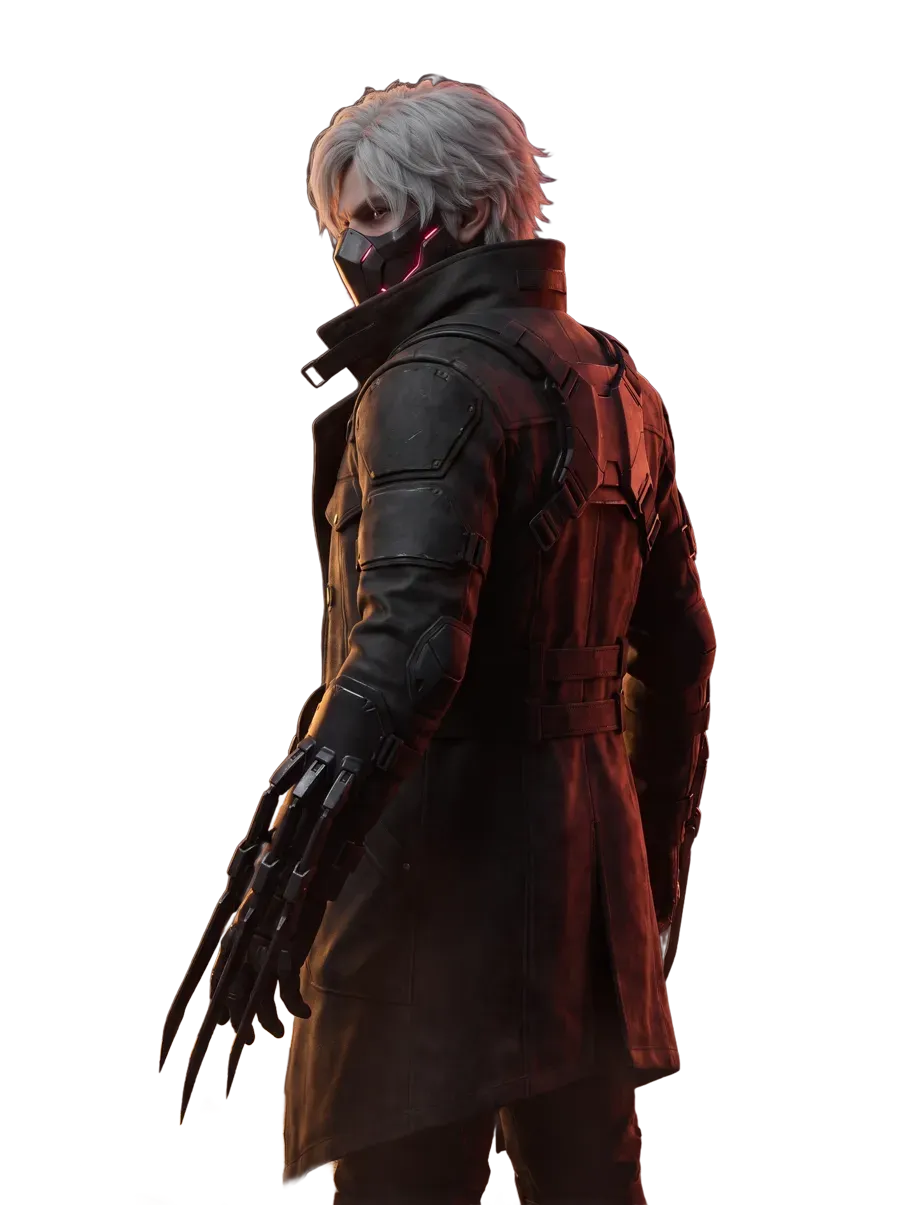
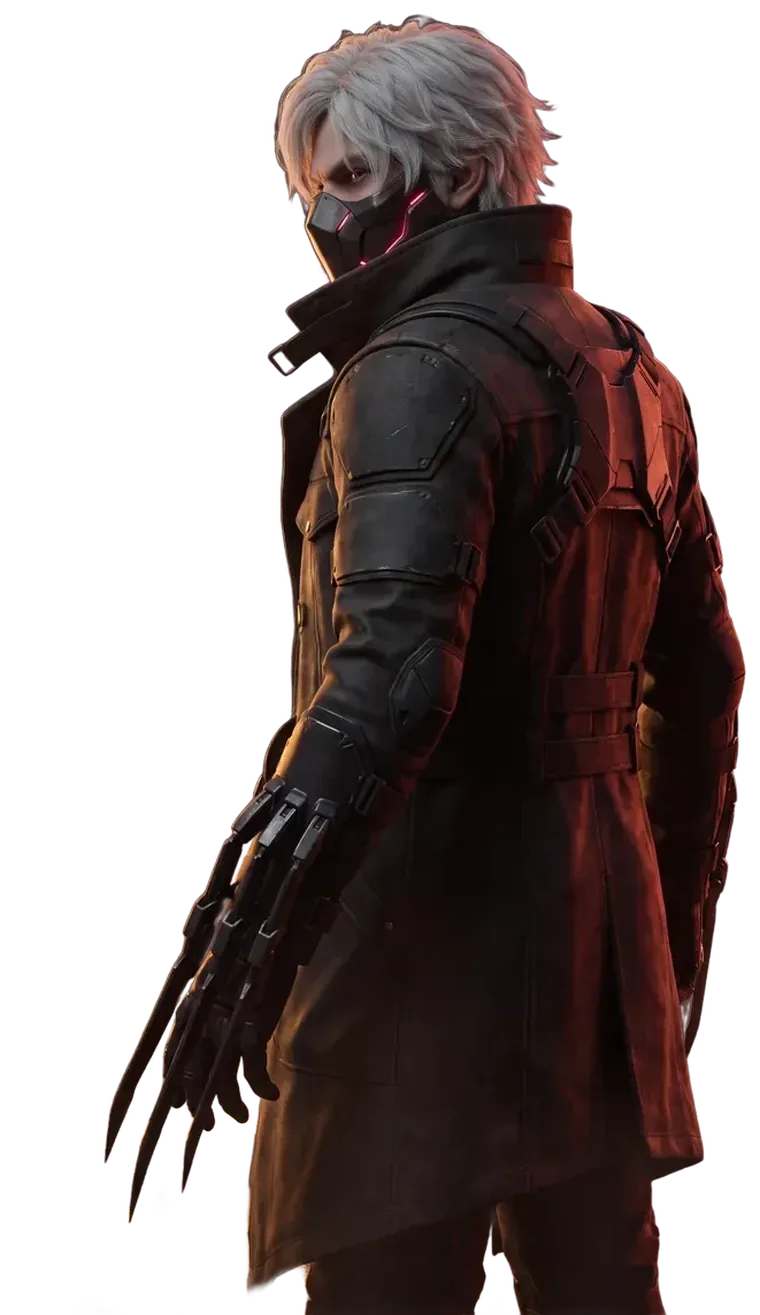
feral-edge: fix mobile hero (trim transparent margins, remove stuck entrance translate); retune hero sizing

diff --git a/feral-edge/styles.css b/feral-edge/styles.css
@@ -99,8 +99,8 @@ body:has(.hero.is-reveal) .hemo,body:has(.hero.is-locked) .hemo{opacity:.9; anim
 .hud i:nth-child(4){bottom:0; right:0; border-left:0; border-top:0}
 
 /* ---- hero figure (hover unmask) ---- */
-.hero{position:absolute; z-index:1; margin:0; top:52%; left:59%; transform:translate(-50%,-50%);
-  width:min(88vw,1040px); height:min(116svh,1200px); pointer-events:auto; will-change:transform}
+.hero{position:absolute; z-index:1; margin:0; top:54%; left:60%; transform:translate(-50%,-50%);
+  width:min(54vw,640px); height:min(92svh,920px); pointer-events:auto; will-change:transform}
 .hero__img{position:absolute; inset:0; width:100%; height:100%; object-fit:contain; object-position:bottom center;
   filter:drop-shadow(0 30px 60px rgba(0,0,0,.6)); transition:opacity .6s var(--ease), transform .3s var(--ease)}
 /* feral (unmasked) render overlays the armored base and is revealed only inside a
@@ -335,7 +335,7 @@ body:has(.hero.is-reveal) .hemo,body:has(.hero.is-locked) .hemo{opacity:.9; anim
 @media (max-width:900px){
   .stage{min-height:auto; padding-bottom:40px}
   .glow{top:44%; left:50%; width:130vw; height:130vw}
-  .hero{position:relative; top:auto; left:auto; transform:none; width:100%; height:min(58svh,460px); margin:clamp(90px,16vh,140px) auto 0}
+  .hero{position:relative; top:auto; left:auto; transform:none; width:100%; height:min(60svh,500px); margin:clamp(64px,9vh,96px) auto 0}
   .lede{position:relative; top:auto; left:auto; max-width:none; padding:clamp(22px,6vw,30px) var(--pad) 0; text-align:center}
   .kicker{justify-content:center}
   .tools{justify-content:center}

diff --git a/feral-edge/main.js b/feral-edge/main.js
@@ -136,7 +136,7 @@
     const tl = gsap.timeline({ defaults: { ease: 'power4.out' } });
     tl.from('.bar', { y: -20, opacity: 0, duration: .7 })
       .from('.glow', { scale: .6, opacity: 0, duration: 1.4, ease: 'power2.out' }, '-=.4')
-      .from('.hero', { x: 60, opacity: 0, duration: 1.2, ease: 'power3.out' }, '-=1.1')
+      .from('.hero', { opacity: 0, duration: 1.2, ease: 'power3.out' }, '-=1.1')
       .from('.kicker', { y: 16, opacity: 0, duration: .7 }, '-=.7')
       .from('.title__l', { yPercent: 115, opacity: 0, duration: 1, stagger: .12 }, '-=.5')
       .from('.sub, .tools, .hint', { y: 18, opacity: 0, duration: .8, stagger: .1 }, '-=.6')
